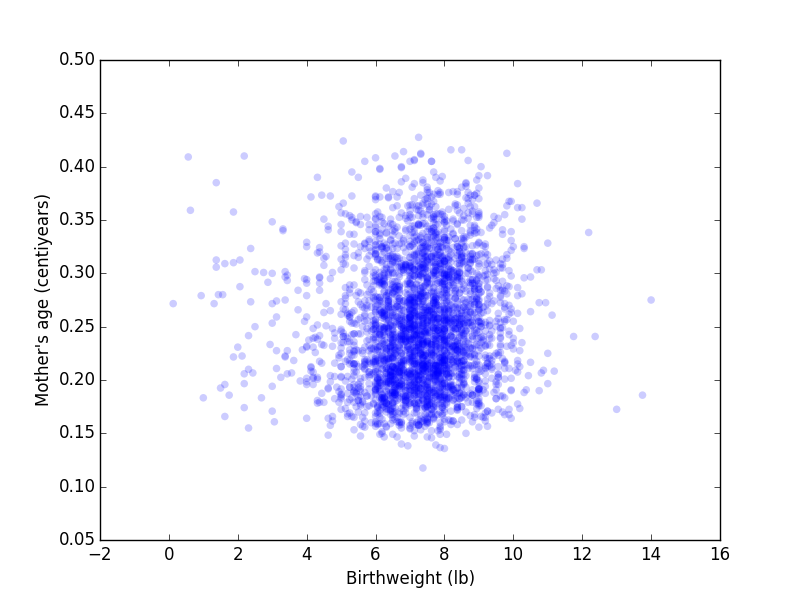
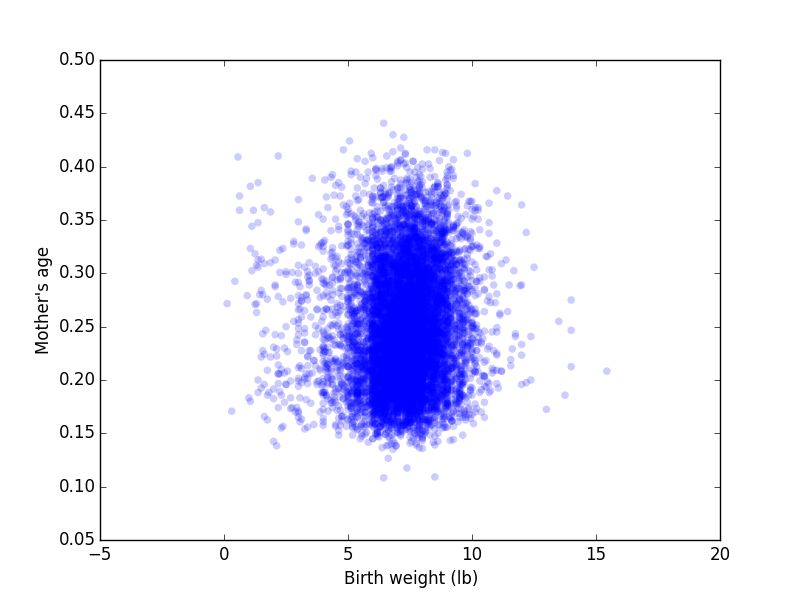
Updating stats exercises and images

diff --git a/statistics/8-2-sampling_dist.md b/statistics/8-2-sampling_dist.md
@@ -1,3 +1,84 @@
 [Think Stats Chapter 8 Exercise 2](http://greenteapress.com/thinkstats2/html/thinkstats2009.html#toc77) (scoring)
 
-REPLACE THIS TEXT WITH YOUR RESPONSE
+##### Import packages
+    import estimation
+    import numpy as np
+    import thinkstats2
+    import thinkplot
+    
+##### Define function to simulate and plot sample distribution
+##### Modified existing SimulateSample() function from estimation package
+    def SimulateSampleExp(n=10, m=1000):
+    """Plots the sampling distribution of the sample mean.
+
+    L: lambda
+    n: sample size
+    m: number of iterations
+    """
+        lam = 2
+    
+        def VertLine(x, y=1):
+            thinkplot.Plot([x, x], [0, y], color='0.8', linewidth=3)
+
+        means = []
+        for _ in range(m):
+            xs = np.random.exponential(1.0/lam,n)
+            L = 1/np.mean(xs)
+            means.append(L)
+
+        stderr = RMSE(means, lam)
+        print('standard error', stderr)
+
+        cdf = thinkstats2.Cdf(means)
+        ci = cdf.Percentile(5), cdf.Percentile(95)
+        print('confidence interval', ci)
+        VertLine(ci[0])
+        VertLine(ci[1])
+
+        # plot the CDF
+        thinkplot.Cdf(cdf)
+        thinkplot.Show(root='estimation1',
+                   xlabel='sample mean',
+                   ylabel='CDF',
+                   title='Sampling distribution')
+                   
+##### Resulting output is:
+standard error 0.8502093486
+confidence interval (1.2682331374299645, 3.7119948331185322)
+
+##### Plot of sampling distribution:
+<img src = "Images/Ex8-2_figure_1.png">
+
+##### Experiment with different values of sample size n
+##### Modified exisiting Estimate3() function from estimation package to return only standard error value
+    def Estimate3_stderror(n=7, m=1000):
+    """Evaluates L as estimator of the exponential parameter.
+
+    n: sample size
+    m: number of iterations
+    """
+        lam = 2
+
+        means = []
+        medians = []
+        for _ in range(m):
+            xs = np.random.exponential(1.0/lam, n)
+            L = 1 / np.mean(xs)
+            Lm = math.log(2) / np.median(xs)
+            means.append(L)
+            medians.append(Lm)
+
+        return RMSE(means, lam)
+
+##### Generated standard errors (std_errs) based on different values of n (n_values)
+    n_values = [10,20,40,80,160]
+    std_errs = []
+    for i in n_values:
+        std_errs.append(estimation.Estimate3_stderror(n=i))
+    
+##### Plot n values vs standard errors
+    thinkplot.Plot(n_values,std_errs)
+    thinkplot.Config(xlabel="N values",ylabel="Standard errors",axis=[0,180,0,.8])
+    thinkplot.Show()
+    
+<img src = "Images/Ex8-2_figure_2.png">

diff --git a/statistics/7-1-weight_vs_age.md b/statistics/7-1-weight_vs_age.md
@@ -3,10 +3,16 @@
 ##### Import packages
     import nsfg
     import thinkplot
+    import thinkstats2
+    import numpy as np
     
 ##### Read and clean data into dataframe file df
     df = nsfg.ReadFemPreg()
     nsfg.CleanFemPreg(df)
+    
+##### Drop NaN values from agepreg and totalwgt_lb variables
+    df = df[np.isfinite(df['agepreg'])]
+    df = df[np.isfinite(df['totalwgt_lb'])]
     
 ##### Assign variables for weight of baby at birth, and age of mother at time of pregnancy
     weight,age = df.totalwgt_lb, df.agepreg
@@ -20,15 +26,27 @@
 ##### Generate CDF of birthweight
     cdf_weight = thinkstats2.Cdf(weight)
     
-##### Find 25th, 50th, 75th, 100th percentile
-##### Result is weight_array = [6.5, 7.375, 8.0625, 15.4375]
+##### Find weight percentiles of interest
+##### Result prints: 
+Min, 25th percentile, 50th percentile, 75th percentile, Max: 0.125, 6.5, 7.375, 8.125, 15.4375
     weight_array = []
-    percentiles = (25,50,75,100)
+    percentiles = (0,25,50,75,100)
     for i in percentiles:
         weight_array.append(thinkstats2.Cdf.Percentile(cdf_weight,i))
-    print "25th, 50th, 75th, 100th percentiles: " + weight_array
+    print 'Min, 25th percentile, 50th percentile, 75th percentile, Max: ' + ", ".join(map(str,weight_array))
 
+##### Compute Pearson's correlation
+##### Result prints: 
+Pearson's correlation: 0.0688
+    pear_corr = thinkstats2.Corr(weight,age)
+    print "Pearson's correlation: " + str(np.around(pear_corr,4))
 
+##### Compute Spearman's rank correlation
+##### Result prints:
+Spearman's rank correlation: 0.0946
+    spear_corr = thinkstats2.SpearmanCorr(weight,age)
+    print "Spearman's rank correlation: " + str(np.around(spear_corr,4))
 
-
+##### Conclusions:
+Given these correlation statistics, we can conclude that there is either no significant relationship or a non-linear relationship between these two variables
 

diff --git a/statistics/6-1-household_income.md b/statistics/6-1-household_income.md
@@ -12,25 +12,26 @@
     df_sample = hinc2.InterpolateSample(df)
     
 ##### Compute size (number of elements) of dataframe. Yields 122458
-    print "Size: "+ df_sample.size
+    print "Size: "+ str(df_sample.size)
 
 ##### Compute median. Yields 4.71
-    print "Median: " + df_sample[122458/2]
+    print "Median: " + str(np.around(df_sample[122458/2],2))
     
 ##### Compute mean. Yields 4.66
 ##### Mean is less than median, indicating a left-skewed distribution
-    print "Mean: " + df_sample.mean()
+    print "Mean: " + str(np.around(df_sample.mean(),2))
     
 ##### Compute skewness measure. Yields -0.64
 ##### Negative value indicates left-skewed distribution
-    print "Skewness measure: " + thinkstats2.Skewness(df_sample)
+    print "Skewness measure: " + str(np.around(thinkstats2.Skewness(df_sample),2))
 
 ##### Compute Pearson Median Skewness. Yields -0.34
 ##### Negative value confirms left-skewed distribution
-    print "Pearson Median Skewness coefficient: " + thinkstats2.PearsonMedianSkewness(df_sample)
+    print "Pearson Median Skewness coefficient: " + str(np.around(thinkstats2.PearsonMedianSkewness(df_sample),2))
     
 ##### Fraction of households below the mean: 45%
     cdf = thinkstats2.Cdf(df_sample)
-    print "Fraction of households below the mean:" + cdf[df_sample.mean()]
+    print "Fraction of households below the mean:" + str(np.around(cdf[df_sample.mean()],2))
 
-##### Assumed upper-bound is positively correlated with the mean, skewness measure, and Pearon Median Skewness coefficient. Median remains constant. 
+##### Conclusion:
+Assumed upper-bound is positively correlated with the mean, skewness measure, and Pearon Median Skewness coefficient. Median remains constant. 

diff --git a/statistics/5-1-blue_men.md b/statistics/5-1-blue_men.md
@@ -17,12 +17,12 @@
     men_htm3_std = df_men.htm3.std()
     
 ##### Mean of men's height is 178.1 cm, standard deviation is 7.7 cm
-    print "Mean: " + men_htm3_mean
-    print "Standard deviation: " + men_htm3_std
+    print "Mean: " + str(np.around(men_htm3_mean,2))
+    print "Standard deviation: " + str(np.around(men_htm3_std,2))
 
 ##### Find the cdf of men's heights at 5'10" (177.8 cm) and at 6'1" (185.4 cm)
-    print "CDF of men's height at 177.8 cm: " + scipy.stats.norm(men_htm3_mean,men_htm3_std).cdf(177.8)
-    print "CDF of men's height at 185.4 cm: " + scipy.stats.norm(men_htm3_mean,men_htm3_std).cdf(185.4)
+    print "CDF of men's height at 177.8 cm: " + str(scipy.stats.norm(men_htm3_mean,men_htm3_std).cdf(177.8))
+    print "CDF of men's height at 185.4 cm: " + str(scipy.stats.norm(men_htm3_mean,men_htm3_std).cdf(185.4))
 
 ##### Yields .486 and .829 respectively
 

diff --git a/statistics/3-1-actual_biased.md b/statistics/3-1-actual_biased.md
@@ -55,8 +55,8 @@
 
 ###### Calculate and print means of both actual and biased pmf distrubutions of number of children under 18 in household
 
-    print "Actual mean" + pmf.Mean()
-    print "Biased mean" + biased_pmf.Mean()
+    print "Actual mean:" + str(np.around(pmf.Mean(),2))
+    print "Biased mean:" + str(np.around(biased_pmf.Mean(),2))
 
-###### Returns ('Actual mean', 1.0242051550438309)
-###### Returns ('Biased mean', 2.4036791006642821)
+###### Returns Actual mean: 1.02
+###### Returns Biased mean: 2.40
